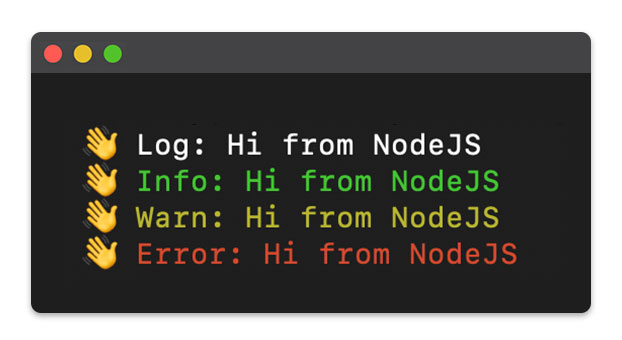
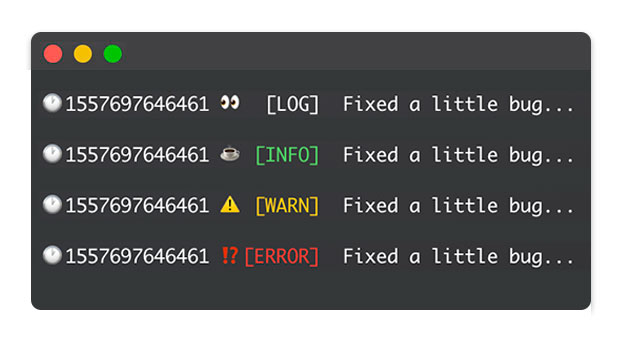
Update to show color into tag type console

diff --git a/index.js b/index.js
@@ -1,3 +1,5 @@
+const d = Date.now();
+
 const colors = {
   Reset: "\x1b[0m",
   Red: "\x1b[31m",
@@ -12,25 +14,23 @@ const errorLog = console.error;
 
 console.log = function(args) {
   const copyArgs = Array.prototype.slice.call(arguments);
-  copyArgs.unshift(colors.Reset);
-  copyArgs.push(colors.Reset);
+  copyArgs.unshift(`🕐 ${d} ${colors.Reset}👀   [LOG]${colors.Reset}`);
   infoLog.apply(null,copyArgs);
-};
+}
 console.info = function(args) {
   const copyArgs = Array.prototype.slice.call(arguments);
-  copyArgs.unshift(colors.Green);
-  copyArgs.push(colors.Reset);
+  copyArgs.unshift(`🕐 ${d} ${colors.Green}☕  [INFO]${colors.Reset}`);
   infoLog.apply(null,copyArgs);
 };
+
 console.warn = function(args) {
   const copyArgs = Array.prototype.slice.call(arguments);
-  copyArgs.unshift(colors.Yellow);
-  copyArgs.push(colors.Reset);
+  copyArgs.unshift(`🕐 ${d} ${colors.Yellow}⚠  [WARN]${colors.Reset}`);
   warnLog.apply(null,copyArgs);
 };
+
 console.error = function(args) {
   const copyArgs = Array.prototype.slice.call(arguments);
-  copyArgs.unshift(colors.Red);
-  copyArgs.push(colors.Reset);
-  errorLog.apply(null,copyArgs);
+  copyArgs.unshift(`🕐 ${d} ${colors.Red}⁉ [ERROR]${colors.Reset}`);
+  warnLog.apply(null,copyArgs);
 };

diff --git a/example/index.js b/example/index.js
@@ -2,7 +2,6 @@
 require('pretty-console-colors');
 
 // Include list emojis and axios dependences
-const emojis = require('emojis-list');
 const axios = require('axios');
 
 // Set logs type
@@ -17,14 +16,10 @@ async function getCommet() {
   }
 }
 
-function rand(){
-  return Math.floor(Math.random() * 2000);
-}
-
 async function showCommet() {
   const commet = await getCommet();
   typeLogs.map(x => {
-    console[x](emojis[rand()] + " " + commet.data);
+    console[x](commet.data);
   });
 }
 
